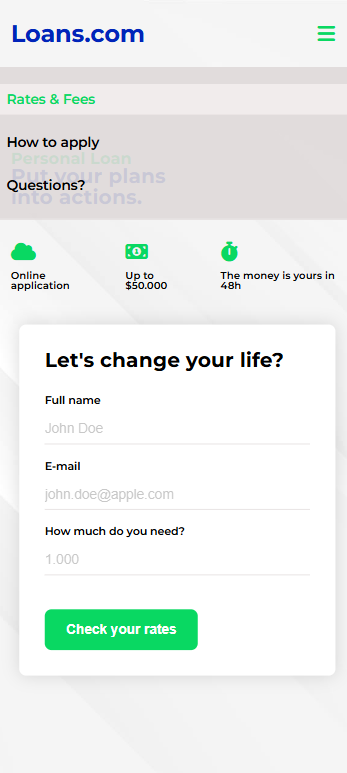
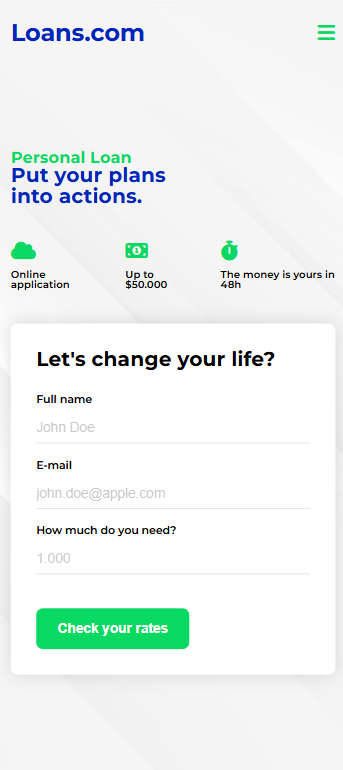
Updated image

diff --git a/src/css/style.css b/src/css/style.css
@@ -338,8 +338,13 @@ button[type="submit"] {
 }
 
 @media screen and (max-width: 768px) {
+
     .form__heading {
         font-size: 1.5rem;
+    }
+
+    .intro__form {
+        margin-left: 0;
     }
 
     button[type="submit"] {
